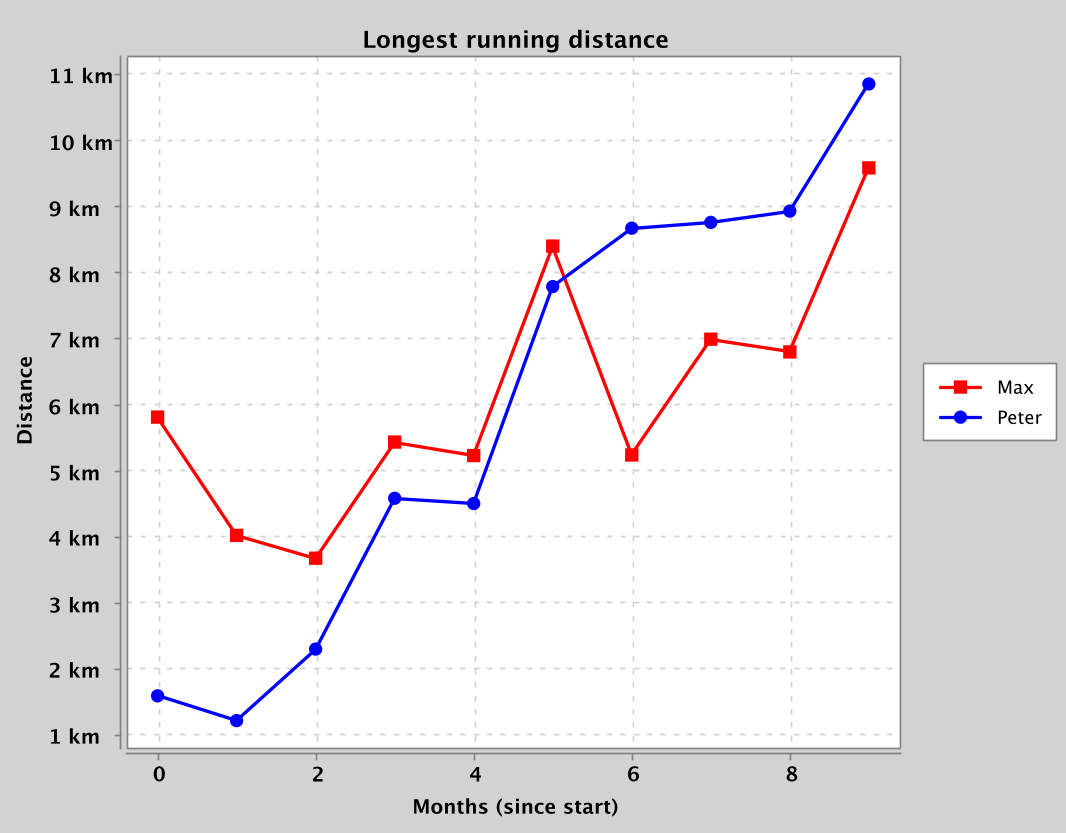
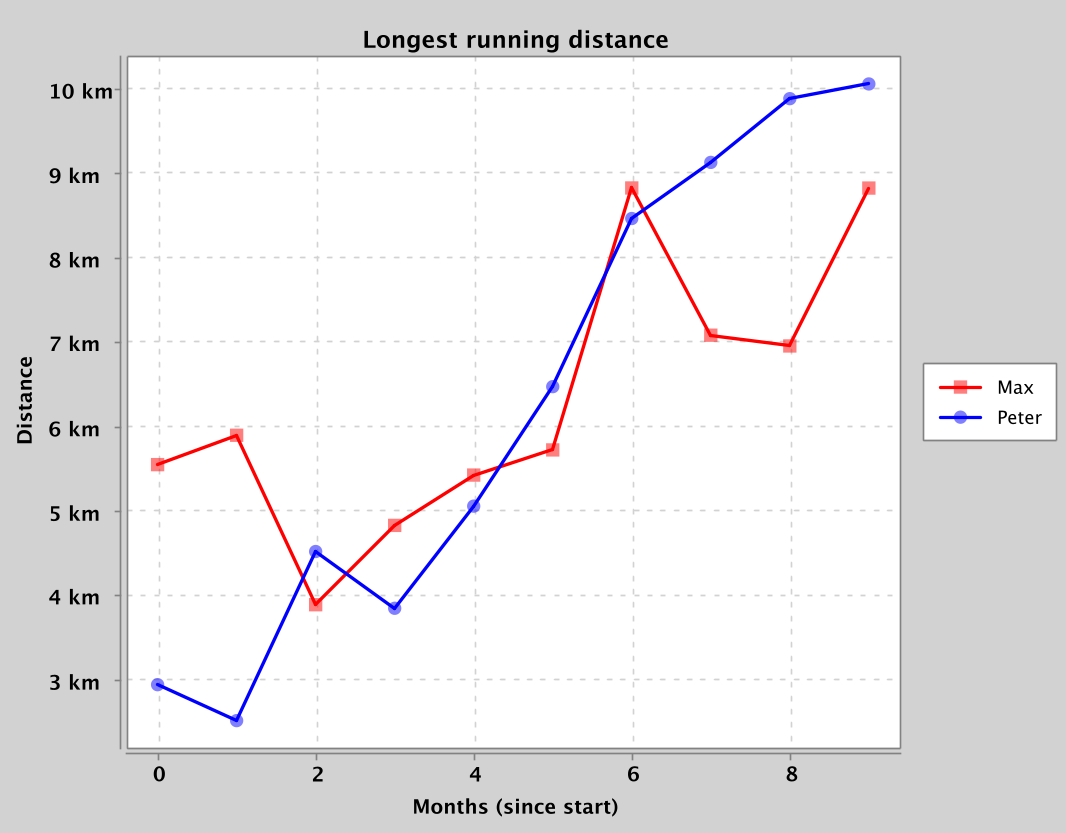
added time series xchart example

diff --git a/doc/readme/ext-charts.md b/doc/readme/ext-charts.md
@@ -46,26 +46,68 @@ Styling a line chart
 (do
    (load-module :xchart)
 
+   (import :java.awt.Color)
+
    (xchart/write-to-file
       (xchart/xy-chart
          { "Peter" { :x (range 10)
                      :y (mapv #(+ % (* 3 (rand-double))) (range 10)) 
                      :style { :marker-type  :circle 
-                              :marker-color :blue
+                              :marker-color (. :Color :new 0 0 255 128)
                               :line-color   :blue } } 
            "Max"   { :x (range 10)
                      :y (mapv #(+ 2  % (* 4 (rand-double))) (range 0 5 0.5)) 
                      :style { :marker-type  :square 
-                              :marker-color :red
+                              :marker-color (. :Color :new 255 0 0 128)
                               :line-color   :red } }}
          { :title "Longest running distance"
-           :render-style :line   ; :step
+           :render-style :line
+           :width 640
+           :height 500         
            :x-axis { :title "Months (since start)" :decimal-pattern "#"}
            :y-axis { :title "Distance" :decimal-pattern "##.## km"}
            :theme :xchart } )
       :png ; write as PNG
       120  ; render with 120 dpi
-      (io/file "line-chart.png")))
+      (io/file "line-chart-2.png")))
+```
+
+
+Time series
+
+<img src="https://github.com/jlangch/venice/blob/master/doc/assets/charts/line-chart-3.png" width="300">
+
+```clojure
+(do
+   (load-module :xchart)
+
+   (import :java.awt.Color)
+
+   (defn months [year] 
+      (map #(time/date (time/local-date year % 1)) (range 1 13)))
+     
+   (xchart/write-to-file
+      (xchart/xy-chart
+         { "Apples" { :x (months 2019)
+                      :y [0 2 3 3 4 7 7 8 8 7 7 5] 
+                      :style { :marker-type  :circle 
+                               :marker-color (. :Color :new 0 0 255)
+                               :line-color   :blue } } 
+           "Prunes" { :x (months 2019)
+                      :y [3 2 2 0 2 4 3 1 3 4 2 0]
+                      :style { :marker-type  :square 
+                               :marker-color (. :Color :new 255 0 0)
+                               :line-color   :red } }}
+         { :title "Fruits"
+           :render-style :line
+           :width 640
+           :height 500         
+           :x-axis { :title "Months" :date-pattern "MMM"}
+           :y-axis { :title "Weight" :decimal-pattern "# tons"}
+           :theme :xchart } )
+      :png ; write as PNG
+      120  ; render with 120 dpi
+      (io/file "line-chart-3.png")))
 ```
 
 #### Area Chart Example
